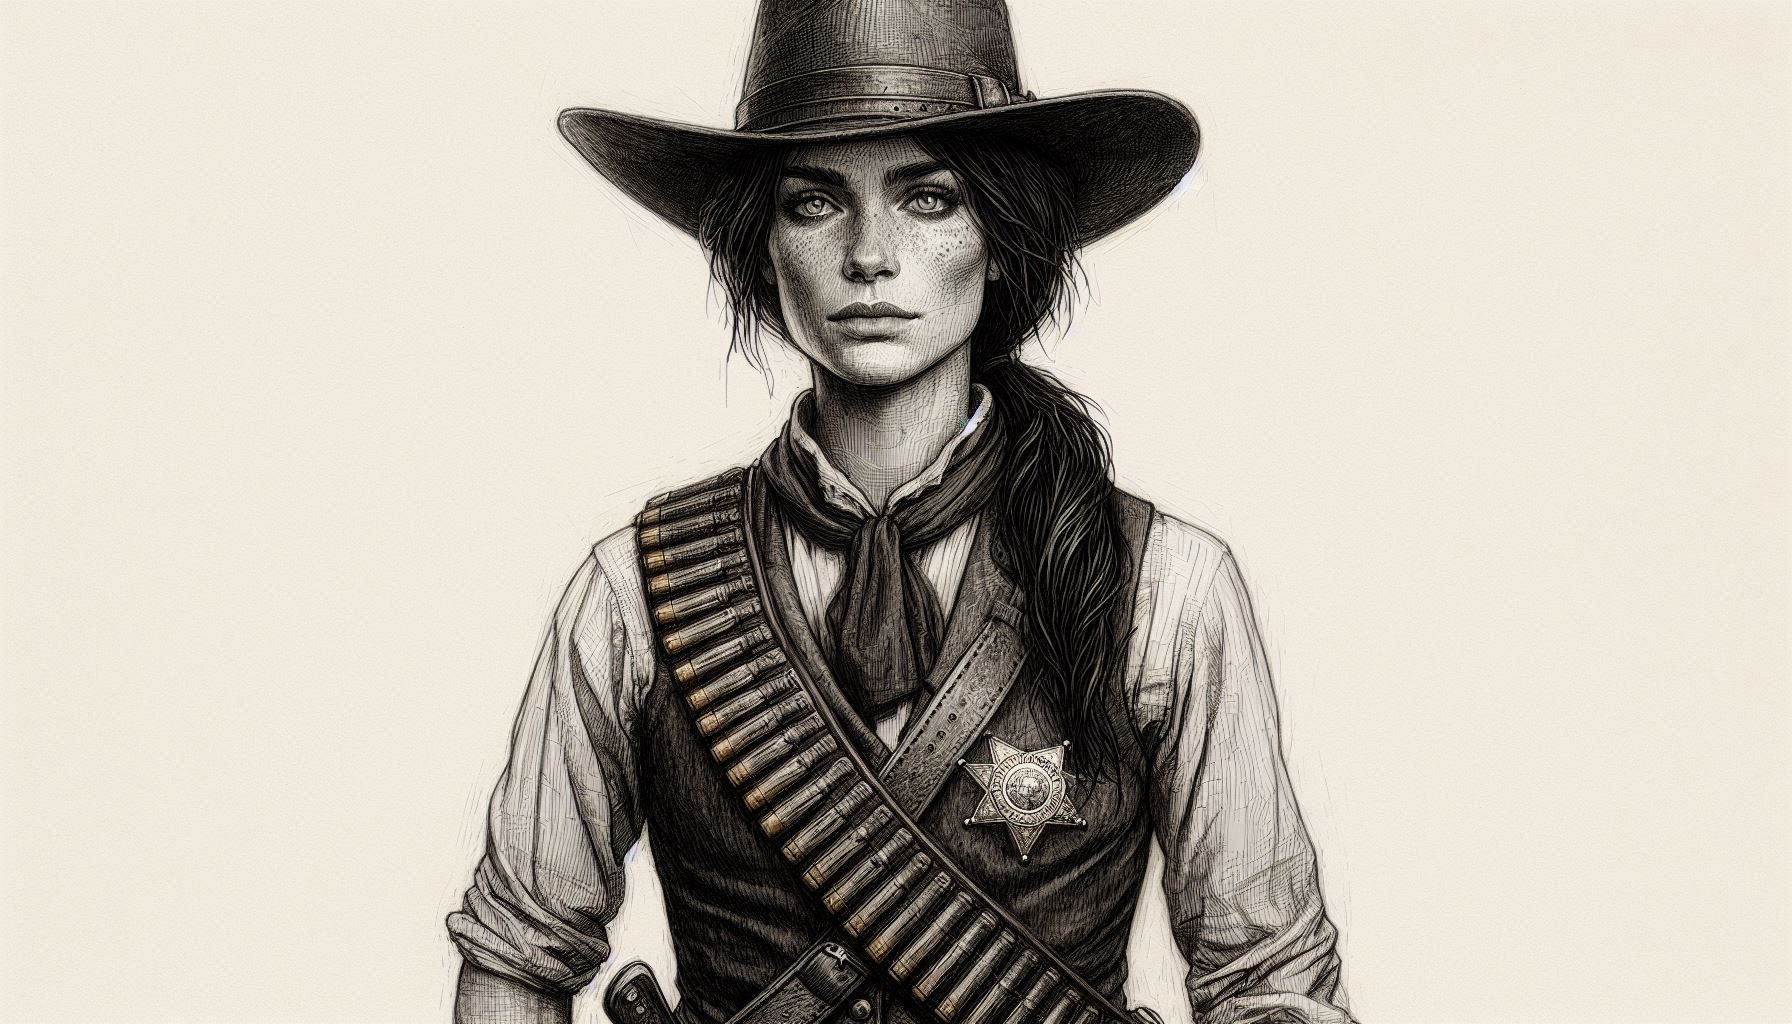
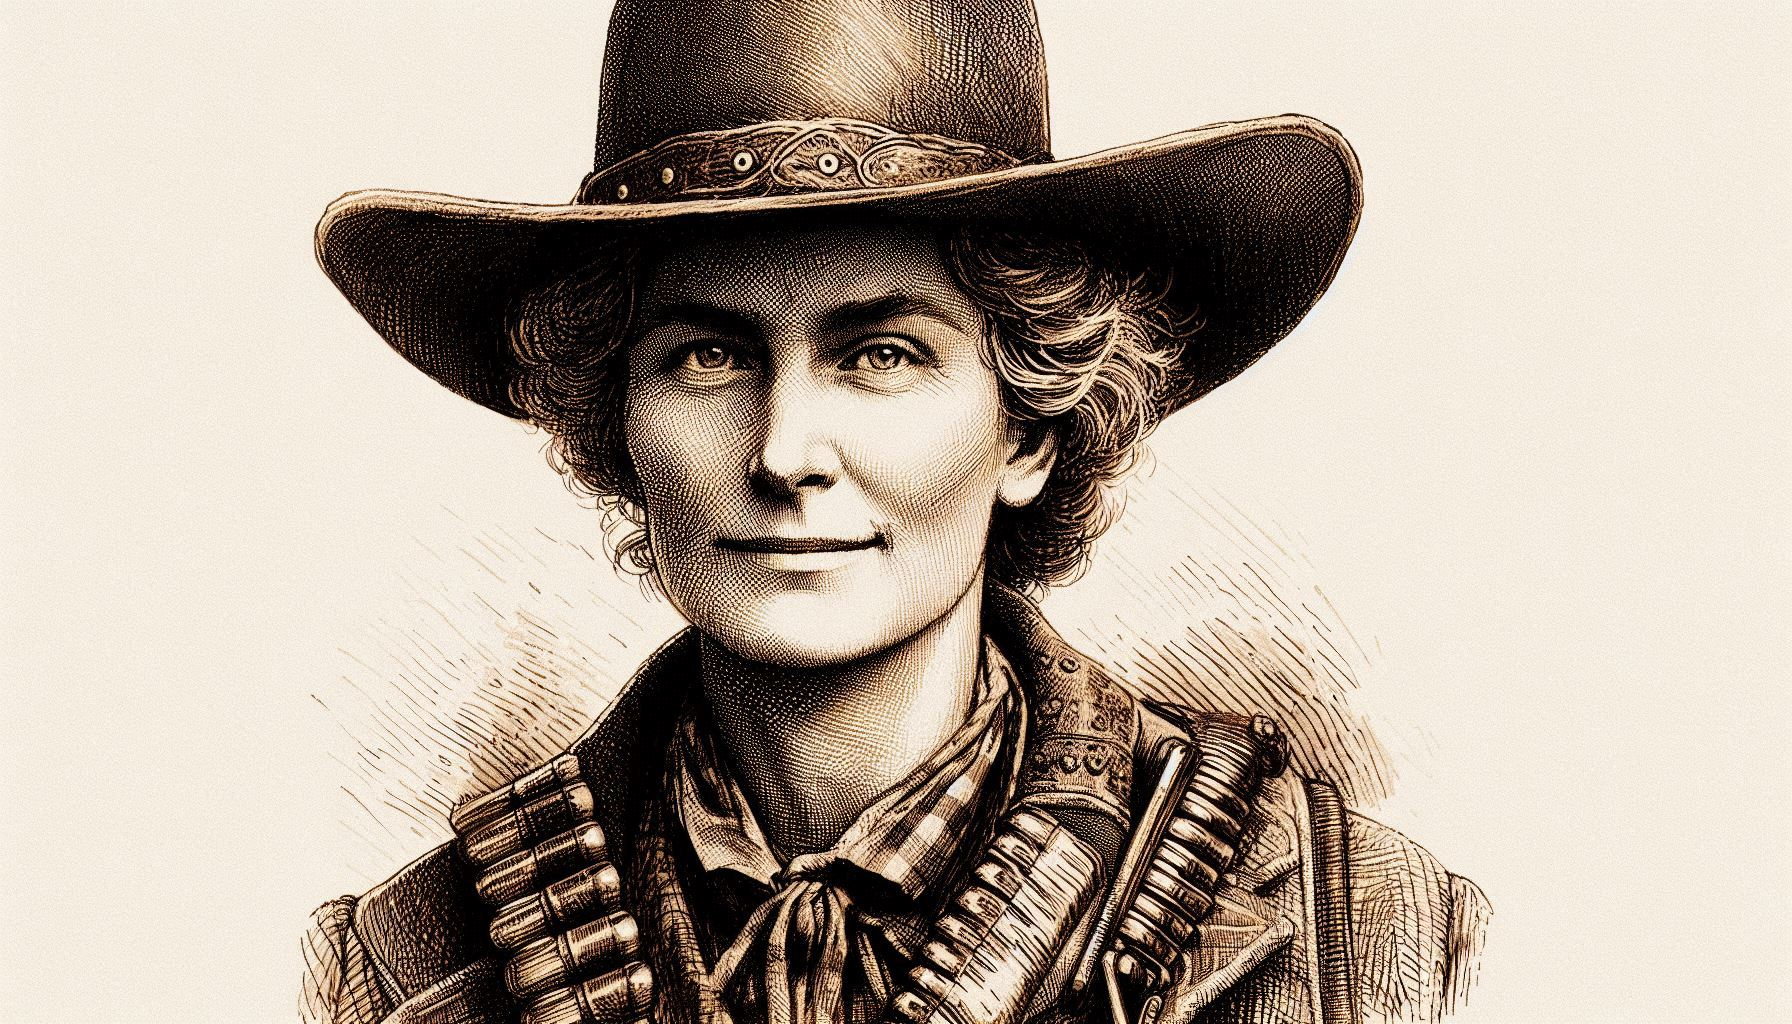
Quartz sync: Sep 10, 2024, 4:47 PM

diff --git a/content/3-Locations/gendrons-post.md b/content/3-Locations/gendrons-post.md
@@ -10,11 +10,11 @@ tags:
 **Status:** Unincorporated<br>
 **Trade Goods, Resources:** N/A
 
-Gendron's Post is a fledgling settlement strategically located where the desert meets the fertile plains on the trail from [Sand Lake](sand-lake) to [Kapama](kapama). It was established as a rest and resupply station for those making that arduous journey. The settlement is named after its founder, Jane Gendron, a former merchant who recognized an opportunity to provide essential services and amenities and to ensure the safety and well-being of travelers and their goods.
+Gendron's Post is a fledgling settlement strategically located where the desert meets the fertile plains on the trail from [Sand Lake](sand-lake) to [Kapama](kapama). It was established as a rest and resupply station for those making that arduous journey. The settlement is named after its founder, [Jane Gendron](jane-gendron), a former merchant who recognized an opportunity to provide essential services and amenities and to ensure the safety and well-being of travelers and their goods.
 # Notable Buildings
 **Rest House.** A sturdy building offering lodging for weary travelers, with simple but comfortable rooms and a communal dining area where meals are served.
 
-**The Staging Yard.** Storage and corrals for the hadrosaurs, wagons and tack for the caravans passing through. There are separate enclosures for animals and storage of goods.
+**The Staging Yard.** A busy area where caravans are assembled and livestock is traded. It’s managed by a no-nonsense foreman named Darren Smithson, who oversees the flow of goods and people. A small tack room and office with attached living quarters is connected to two large paddocks—one for the hadrosaurs that pull the wagons and the other for storing wagons and equipment. The later is also where caravan masters assemble their trains before departing.
 
 **Repair Shop.** An unnamed workshop offering repairs for wagons, tools and equipment.
 
@@ -22,6 +22,8 @@ Gendron's Post is a fledgling settlement strategically located where the desert 
 
 **General Store.** An unnamed, one-room establishment where travelers can purchase supplies, trade goods, and stock up on essentials before continuing their journey.
 
-**Gendron’s Post.** The lookout tower at the heart of the settlement was built by Jane herself to watch for travelers and potential threats.
+**Clinic.** A clean and orderly, single-room building with several cots for patients. The shelves are stocked with medicinal herbs and supplies, and a folding screen cordons off the resident healer’s personal area.
 
-**The Well.** It’s a public well. Fresh water for 8 CP a bucket—a vital resource so close to the desert.
+**Gendron’s Post.** The eponymous lookout tower at the heart of the settlement was built by Jane Gendron to watch for travelers and potential threats. A narrow trestle structure supports a small, one-room cabin with a ladder leading up to it. There’s a full-perimeter balcony that allows for clear views of the nearby countryside.
+
+**The Well.** It’s a public well. Fresh water for 8 CP a bucket—a vital resource so close to the desert. 

diff --git a/content/9-Game Log/01-medicine-show.md b/content/9-Game Log/01-medicine-show.md
@@ -13,13 +13,13 @@ tags:
 ---
 # Day 2 (29 Sept. 1864)
 ## Evening
-* Himari receives a job from Thaddeus Cole, his handler in the [Haven Syndicate](the-haven-syndicate). He is to provide supplemental protection for a Panacea healer in Gendron’s Post.
+* Himari receives a job from [Thaddeus Cole](thaddeus-cole), his handler in the [Haven Syndicate](the-haven-syndicate). He is to provide supplemental protection for a Panacea healer in Gendron’s Post.
 ---
 # Day 3 (30 Sept. 1864)
 ## Evening
 * Hicks wraps up his shift collecting payment from caravanners at the local well.
 * Ella finishes a long shift making nails as an apprentice for the local blacksmith, Marcus Stone.
-* At dinner, at the Rusty Spur, Jane Gendron delivers a message from Sheriff Drayton, who asks Hicks to be on the lookout for any oddly violent behavior.
+* At dinner, at the Rusty Spur, Jane Gendron delivers a message from [Sheriff Drayton](mariah-drayton), who asks Hicks to be on the lookout for any oddly violent behavior.
 * Jane asks Hicks to keep an eye on Dr. Horne as well.
 ---
 # Day 4 (1 Oct. 1864)

diff --git a/content/5-NPCs/jane-gendron.md b/content/5-NPCs/jane-gendron.md
@@ -1,0 +1,17 @@
+---
+title: Jane Gendron
+draft: false
+tags:
+  - npcs
+---
+![[npc-jane-gendron.jpg]]
+
+**Faction/Organization:** N/A<br>
+**Role:** Settlement founder/leader<br>
+**Primary Location:** [Gendron's Post](gendrons-post)
+
+Jane Gendron is the founder of Gendron’s Post.
+
+**Personality:** Jane has the air of someone accustomed to both offering suggestions and giving commands—and having both followed attentively followed.
+
+**Appearance:** Jane is a middle-aged woman with long, salt-and-pepper hair that she keeps tied back in braids. She wears practical and well-kept work clothes and a gun belt with two pistols slung low on her hips. She keeps her hat tipped down most of the time to block the sun.
